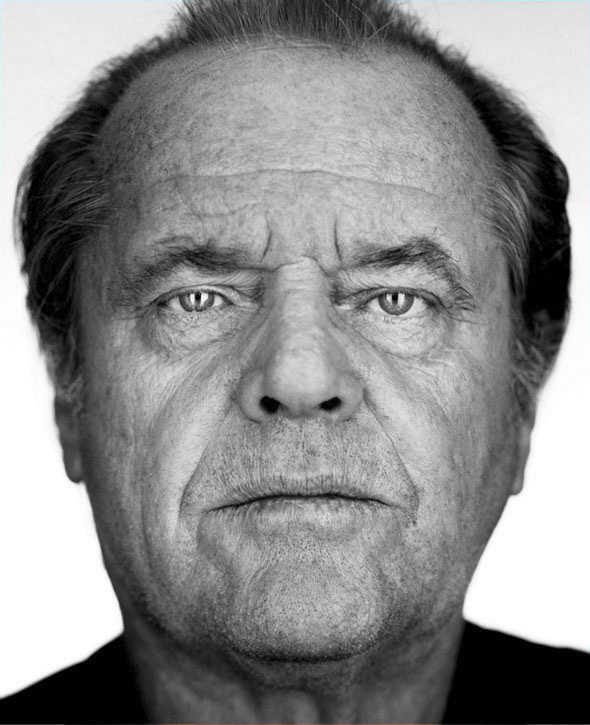
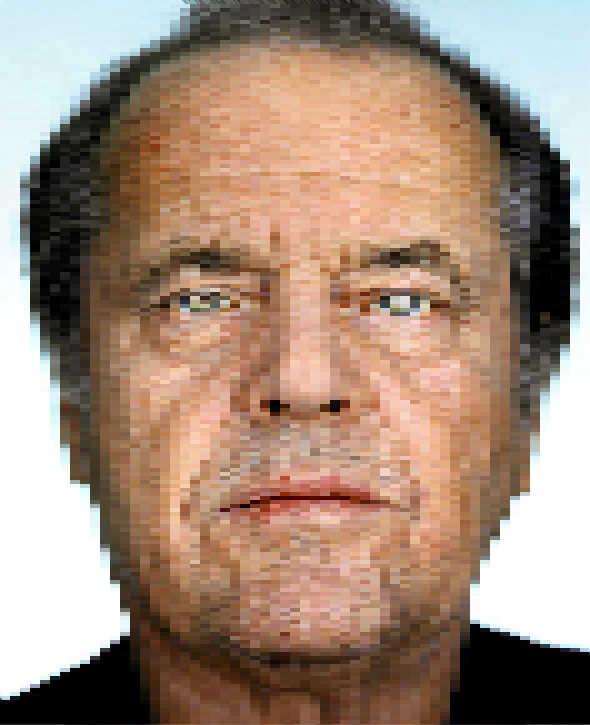
Pixelate filter done

diff --git a/node_version/filter64.js b/node_version/filter64.js
@@ -1,6 +1,6 @@
 
 let pixels;
-
+let config = {};
 
     /*let pixel = {
         r: pixels.get(0,0,0),
@@ -12,24 +12,48 @@ let pixels;
 
 function init( data ){
     pixels = data;
-    return this;
 }
 
 function get_result(){
     return pixels;
 }
 
+function put(x,y,r,g,b){
+    pixels.set(x,y,0, r);
+    pixels.set(x,y,1, g);
+    pixels.set(x,y,2, b);
+}
+
+
+// --------------------- T O   G R A Y ---------------------
 
 function to_gray(x,y){
 
     let avg = (pixels.get(x,y,0) + pixels.get(x,y,1) + pixels.get(x,y,2)) / 3;
-    pixels.set(x,y,0, avg);
-    pixels.set(x,y,1, avg);
-    pixels.set(x,y,2, avg);
+    put(x,y,avg,avg,avg);
+}
+
+
+// --------------------- P I X E L A T E ---------------------
+
+function pixelate_config(scale){
+
+    config.pixelate = {     
+        scale: scale
+    };
 }
 
 function pixelate(x,y){
 
+    let conf = config.pixelate;
+    
+    let dx = conf.scale*(1/pixels.shape[0]);
+    let dy = (conf.scale)*(1/pixels.shape[1]);
+    let nx = parseInt(dx * Math.floor(x/dx));
+    let ny = parseInt(dy * Math.floor(y/dy));
+
+    put(x,y,pixels.get(nx,ny,0),pixels.get(nx,ny,1),pixels.get(nx,ny,2));
 }
 
-module.exports = { init, get_result, to_gray, pixelate };
+
+module.exports = { init, get_result, to_gray, pixelate, pixelate_config };

diff --git a/node_version/c64image.js b/node_version/c64image.js
@@ -17,19 +17,24 @@ getPixels("assets/portrait.jpg", (err, data) => {
 
     pixels = data;
 
-    filter64.init(pixels);
+    
 
     console.log("got pixels", pixels.shape.slice())
 
-
     // Get array shape 
-    var nx = pixels.shape[0], 
-      ny = pixels.shape[1];
+    const image = {
+      width: pixels.shape[0],
+      height: pixels.shape[1]
+    };
+
+    filter64.init(pixels);
+    filter64.pixelate_config(100);
  
   //Loop over all cells 
-  for(let i=1; i<nx-1; ++i) {
-    for(let j=1; j<ny-1; ++j) {
-        filter64.to_gray(i, j);
+  for(let i=1; i<image.width-1; ++i) {
+    for(let j=1; j<image.height-1; ++j) {
+        //filter64.to_gray(i, j);
+        filter64.pixelate(i, j);
     }
   }
 
